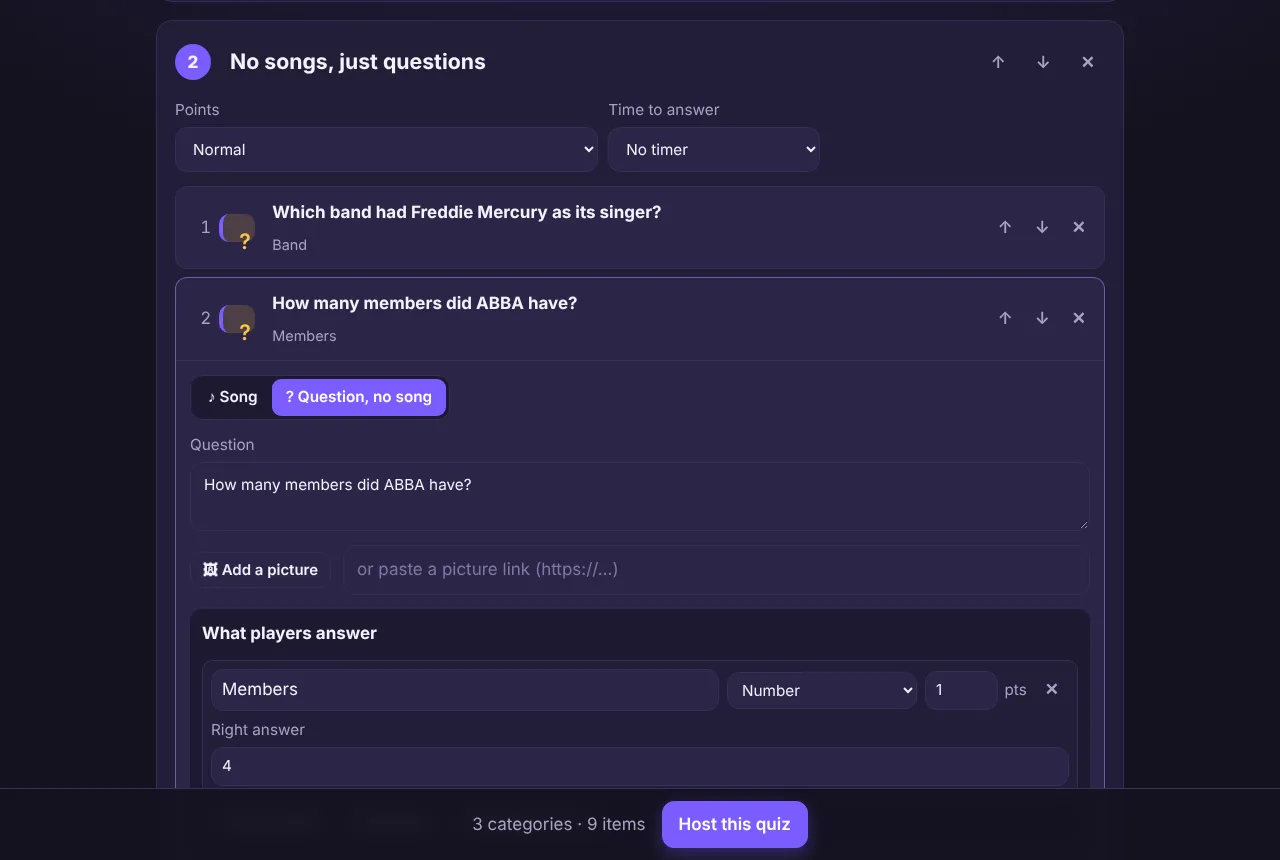
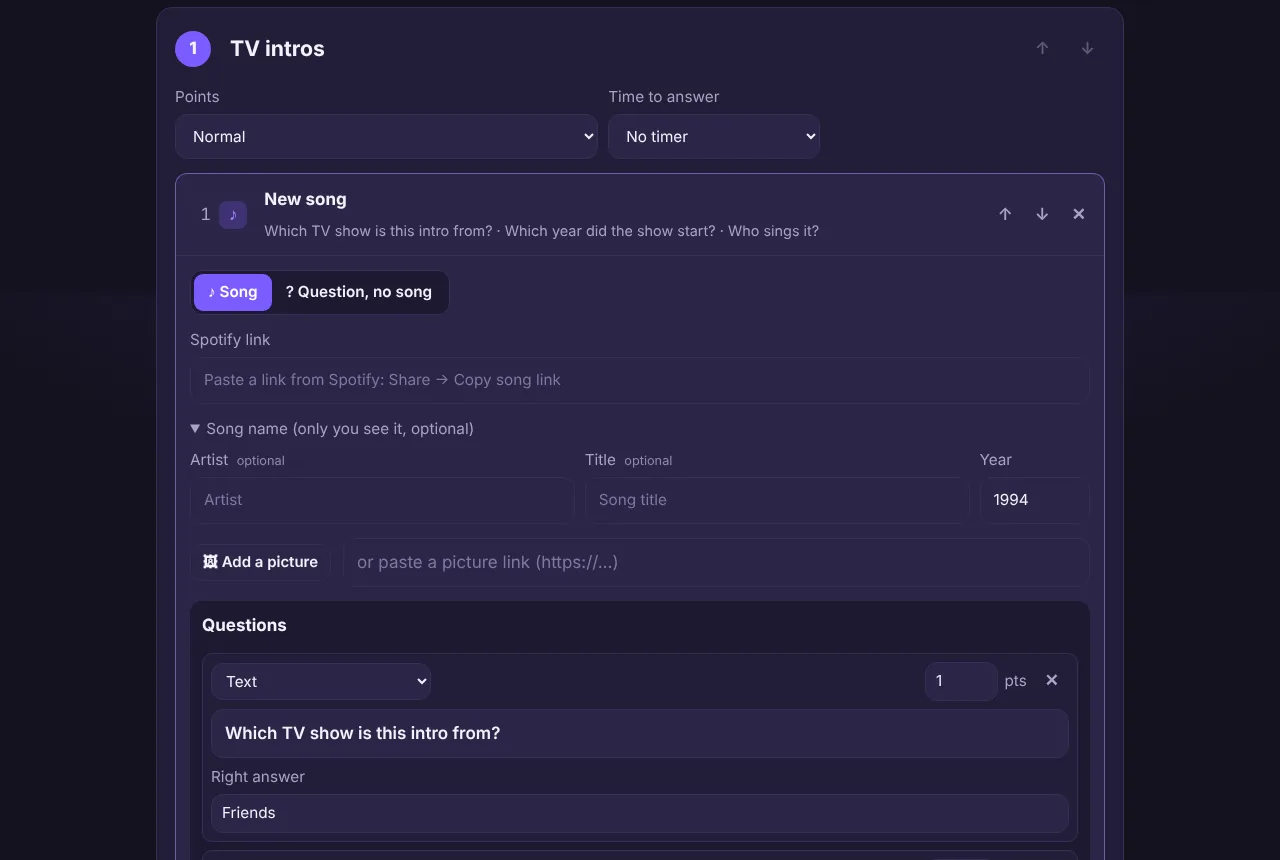
Describe writing your own questions per song (#4)
* Add Random quiz to the feature list and quiz-list screenshot

Matches the app change in music-quiz-app PR #2. No privacy change:
random quizzes are built and saved in the browser like other quizzes.

Claude-Session: https://claude.ai/code/session_01StYdww9nuKnYPwEL9S93gE

* Site: songs with only your own questions, and seeing every answer

Feature list and results screenshot match music-quiz-app PR #3. No
privacy change.

Claude-Session: https://claude.ai/code/session_01StYdww9nuKnYPwEL9S93gE

* Site: quizzes built by category, answers checked at the end

Matches music-quiz-app PR #4: feature text, how-it-works step, and
builder, quiz list and results screenshots. Privacy wording only
(rounds -> categories); no change to what is collected.

Claude-Session: https://claude.ai/code/session_01StYdww9nuKnYPwEL9S93gE

* Site: describe writing your own questions per song, new editor screenshot

Claude-Session: https://claude.ai/code/session_01StYdww9nuKnYPwEL9S93gE

* Site: fix screenshot alt text

Claude-Session: https://claude.ai/code/session_01StYdww9nuKnYPwEL9S93gE

* Site: fix quotes in alt text

Claude-Session: https://claude.ai/code/session_01StYdww9nuKnYPwEL9S93gE

---------

diff --git a/index.html b/index.html
@@ -62,7 +62,7 @@
       <h2>How a Track Night works</h2>
       <p class="sub">One laptop or TV for the quiz master, one phone per player. Nobody needs to download anything or make an account to play.</p>
       <ol class="steps">
-        <li><span class="n">1</span><h3>Make your quiz</h3><p>Start from the example or from scratch. Mix songs and trivia, add pictures, choose what players answer and how many points each answer is worth.</p></li>
+        <li><span class="n">1</span><h3>Make your quiz</h3><p>Start from the example or from scratch. Mix songs and trivia, add pictures, write each question and its right answer, and choose how many points it is worth.</p></li>
         <li><span class="n">2</span><h3>Teams join in seconds</h3><p>Put the host screen on the TV. One player per team scans the QR code and taps New team; teammates scan the team code on that phone and only type their name.</p></li>
         <li><span class="n">3</span><h3>Play and score</h3><p>You play each song from your own Spotify and the TV shows each question. Teams answer on their phones through every category, then all answers are checked at once and the scoreboard shows the winner.</p></li>
       </ol>
@@ -72,7 +72,7 @@
       <h2>See it in action</h2>
       <p class="sub">Screens from the current web version.</p>
       <div class="shots">
-        <figure class="shot"><img src="img/builder.webp" alt="Quiz editor with the category No songs, just questions, holding trivia questions, one open with a number answer and its right answer" width="1280" height="860" loading="lazy"><figcaption>Name a category, add its songs and questions, then the next. Text, number or multiple-choice answers, pictures, points and timers.</figcaption></figure>
+        <figure class="shot"><img src="img/builder.webp" alt="Quiz editor with the category TV intros and a song with its Spotify link, optional song name, and a text question, Which TV show is this intro from?, with its right answer" width="1280" height="860" loading="lazy"><figcaption>Name a category, add a song, then write its questions one by one: pick the format, the question and the right answer.</figcaption></figure>
         <div class="row">
           <figure class="shot"><img src="img/quizzes.webp" alt="Your quizzes page with buttons for a new quiz, the example quiz, opening a quiz file and a random quiz, and the Random quiz panel with categories and counts" width="1280" height="860" loading="lazy"><figcaption>All your quizzes in one place, or roll a random quiz from them.</figcaption></figure>
           <figure class="shot"><img src="img/lobby.webp" alt="TV lobby with a big QR code, the join code and three teams with their players" width="1280" height="860" loading="lazy"><figcaption>The TV shows the QR code and every team as it arrives.</figcaption></figure>
@@ -96,7 +96,7 @@
       <h2>Made for a real quiz night</h2>
       <p class="sub">Everything a quiz master needs, and nothing players have to install.</p>
       <ul class="features">
-        <li><b>100% your quiz</b><span>Songs, trivia, pictures and multiple choice in any mix. Ask for artist, title and year, or only your own question, like "Which TV show is this intro from?", with your own points.</span></li>
+        <li><b>100% your quiz</b><span>Songs, trivia, pictures and multiple choice in any mix. Every song starts empty: add a question, pick its format (text, number, year, multiple choice, artist or song title), write it and its right answer, like "Which TV show is this intro from?", then add the next.</span></li>
         <li><b>See every answer</b><span>When the quiz is checked, players see their answers next to the right ones, and the quiz master sees every team's answers by question or by team. Nothing is revealed before the end.</span></li>
         <li><b>Built by category</b><span>Name a category, like "80s music", add its songs and questions, then the next. The quiz plays straight through and checks everything at the end. Any category can be double or triple points, or have a countdown that locks answers by itself.</span></li>
         <li><b>Easy team joining</b><span>Scan the TV's QR code, tap New team, and teammates scan the team code on that phone. Players can switch team in the lobby.</span></li>
